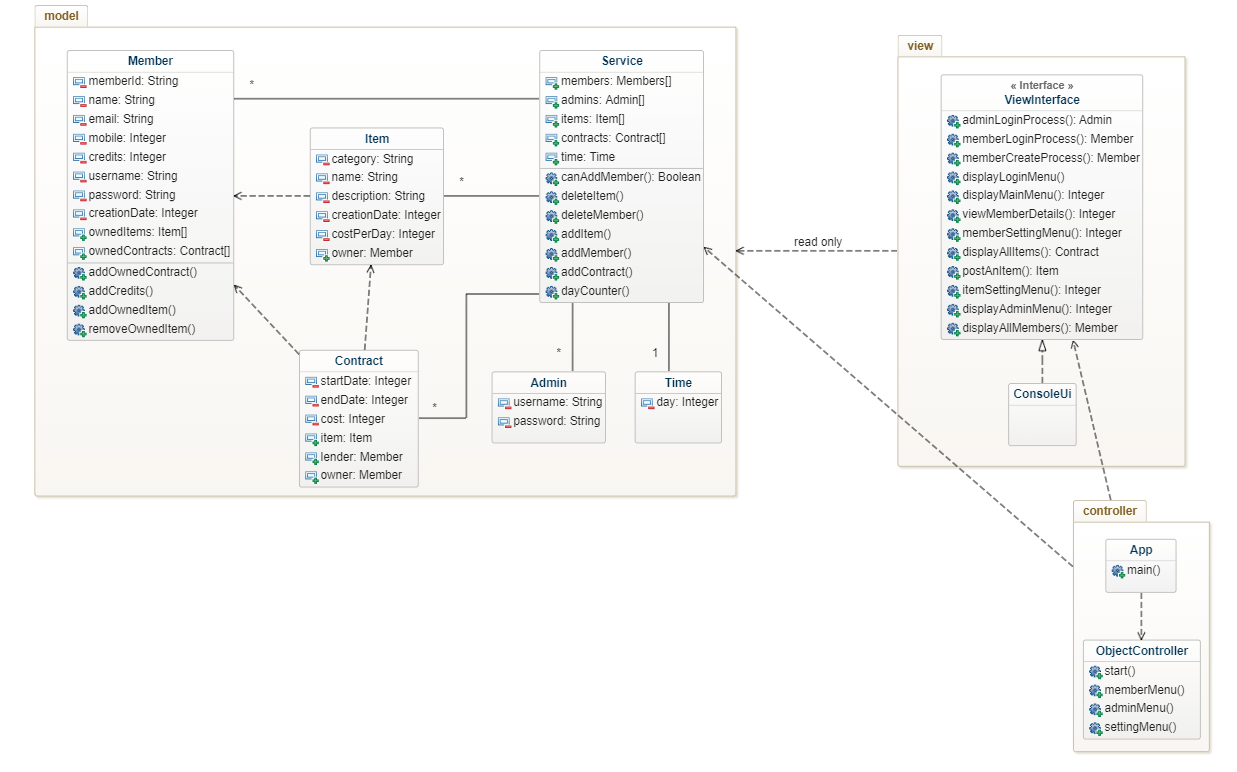
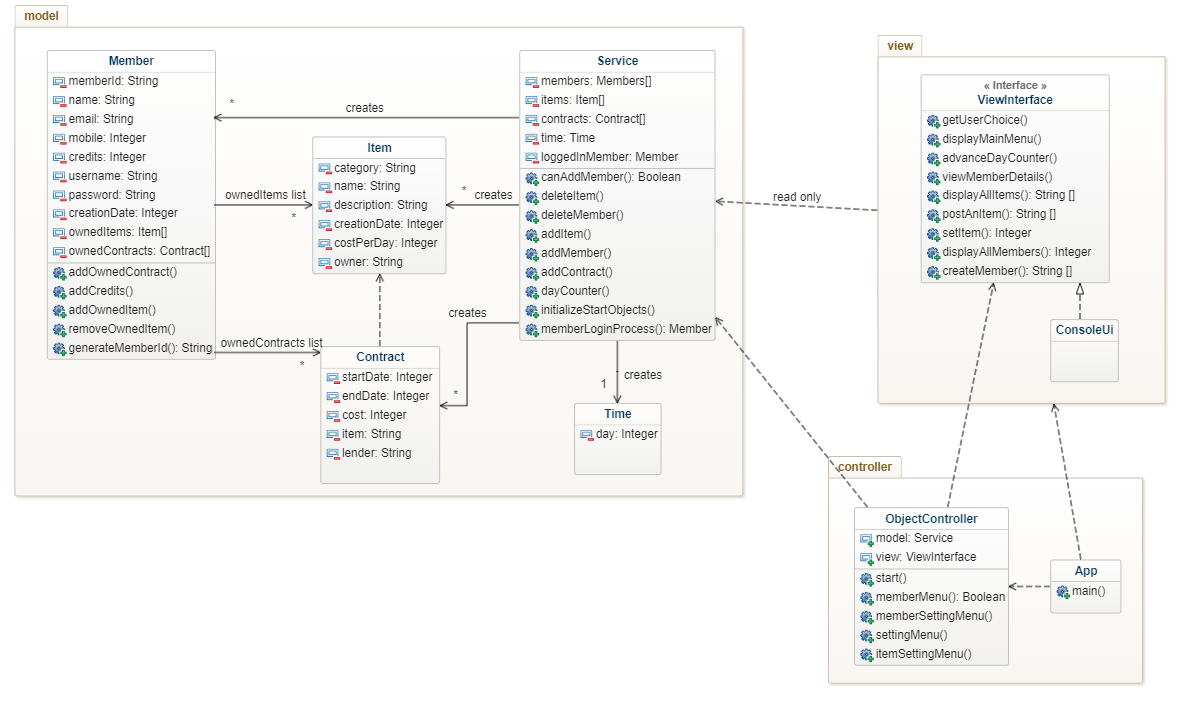
fix new report and diagrams, some updates to create new member

diff --git a/app/src/main/java/model/Member.java b/app/src/main/java/model/Member.java
@@ -17,8 +17,6 @@ public class Member {
   private List<Item> ownedItems;
   private List<Contract> ownedContracts;
   private List<String> existingMemberIds;
-  private List<String> emails;
-  private List<Integer> mobiles;
   private String username;
   private String password;
 
@@ -37,8 +35,6 @@ public class Member {
     ownedItems = new ArrayList<>();
     ownedContracts = new ArrayList<>();
     existingMemberIds = new ArrayList<>();
-    emails = new ArrayList<>();
-    mobiles = new ArrayList<>();
     this.memberId = generateMemberId(new Random());
   }
 
@@ -111,11 +107,7 @@ public class Member {
    * Members cant have same email.
    */
   public void setEmail(String email) {
-    do {
-      this.email = email;
-    } while (emails.contains(email));
-
-    emails.add(email);
+    this.email = email;
   }
 
   public int getMobile() {
@@ -126,11 +118,7 @@ public class Member {
    * Members cant have same phone number.
    */
   public void setMobile(int mobile) {
-    do {
-      this.mobile = mobile;
-    } while (mobiles.contains(mobile));
-
-    mobiles.add(mobile);
+    this.mobile = mobile;
   }
 
   public int getCreationDate() {

diff --git a/app/src/main/java/controller/ObjectController.java b/app/src/main/java/controller/ObjectController.java
@@ -67,11 +67,15 @@ public class ObjectController {
         memberMenu();
       }
     } else if (view.sixth()) {
-      String[] newMemberDetails = view.createMember();
+      String[] newMemberDetails = view.createMember(model);
       if (newMemberDetails != null) {
-        model.addMember(newMemberDetails[0], newMemberDetails[1], newMemberDetails[2], 
-            newMemberDetails[3], newMemberDetails[4]);
-        view.displayGood();
+        if (model.canAddMember(newMemberDetails[1], newMemberDetails[2]) != false) {
+          model.addMember(newMemberDetails[0], newMemberDetails[1], newMemberDetails[2], 
+              newMemberDetails[3], newMemberDetails[4]);
+          view.displayGood();
+        } else {
+          view.cannotAdd();
+        }
         memberMenu();
       } else {
         memberMenu();

diff --git a/app/src/main/java/view/ConsoleUi.java b/app/src/main/java/view/ConsoleUi.java
@@ -108,7 +108,7 @@ public class ConsoleUi implements ViewInterface {
   /**
    * To create a new member.
    */
-  public String [] createMember() {
+  public String [] createMember(Service service) {
     System.out.println("Enter member name: ");
     String name = scanner.nextLine();
     name = scanner.nextLine();
@@ -121,7 +121,13 @@ public class ConsoleUi implements ViewInterface {
     String username = scanner.nextLine();
     System.out.println("Enter member password: ");
     String password = scanner.nextLine();
+
     return new String[] { name, email, mobile, username, password };
+  }
+
+  public void cannotAdd() {
+    System.out.println("You can't add a new member with same email " 
+          + "or phone number as another member.");
   }
 
   /**

diff --git a/app/src/main/java/model/Service.java b/app/src/main/java/model/Service.java
@@ -135,7 +135,8 @@ public class Service {
    * This controls if the account can be created.
    * Check if the new member has same email or number as another member.
    */
-  public boolean canAddMember(String email, int mobile) {
+  public boolean canAddMember(String email, String stringMobile) {
+    int mobile = Integer.parseInt(stringMobile);
     for (Member member : members) {
       if (member.getEmail().equals(email) || member.getMobile() == mobile) {
         return false;

diff --git a/app/src/main/java/view/ViewInterface.java b/app/src/main/java/view/ViewInterface.java
@@ -51,7 +51,9 @@ public interface ViewInterface {
 
   int displayAllItemsAdmin(List<Item> items, Service service);
 
-  String [] createMember();
+  String [] createMember(Service service);
+
+  void cannotAdd();
 
   boolean first();
 

diff --git a/README.md b/README.md
@@ -13,17 +13,29 @@ Aiman Daeef (ad223jd)
 ## Usage of the application
 
 ### Login
-There is a login system in our application. You can log in as admin or member or create a new member account.  
+When the application runs, the user Etka logs into the system directly. If you want to log in with another user, you can change this in the ```setCredentials``` method in the Service class:
 
-What you should pay attention to when creating a new member account is that you should not enter the same email account or phone number as another member. The application does not accept this. You can change the information you entered when creating a new account at any time you want from the settings menu in the application.  
+``` Java
+public String[] setCredentials() {
+    String username = "etka"; //here
+    String password = "etka123"; //here
 
-### What can a member do?
+    return new String[] { username, password };
+}
+```
 
-You can create your own member account but you can also log in as a member directly to test the application:
-```  
-Username: etka  
-Password: etka123  
-```  
+You can log in with other existing members:
+```
+username: aiman
+password: aiman123
+
+username: sanaa
+password: sanaa123
+```
+
+For the completion that comes in the new version of the application, we removed the system that required logging in by typing username and password in the past so that it would be easier to test the application. Likewise, we developed the application so that all features can be used in only one account, and therefore we removed the Admin class.
+
+### What can be done in the application?
 
 A member initially has 0 credits. Member can share items at any time and receives 100 credits for each item they shared. Members can use these credits when borrowing an item. However, if the member wants to delete one of their own shared items, these 100 credits will be taken back.  
 
@@ -35,14 +47,6 @@ The application also has a day counter and the logged-in member can simulate the
 
 We paid attention to preventing crashes in the application and error handling. It's easy to fix when you make wrong choices in the menus, it's easy to go back to the right menus in the app, and simply exit the app.  
 
-### What can an admin do? 
+You can view all members and items registered in the system and also can ban any member and remove any item from the system. When a member is banned, members owned items are also deleted.
 
-You can not create a new admin account.  
-
-**Use them to log in as admin:**  
-``` 
-Username: gadmin  
-Password: thegadmin03  
-``` 
-
-Admin can view all members and items registered in the system. Admin can ban any member and remove any item from the system. When a member is banned, members owned items are also deleted.
+You can also create as many new members as you want. What you should pay attention to when creating a new member account is that you should not enter the same email account or phone number as another member. The application does not accept this. 
